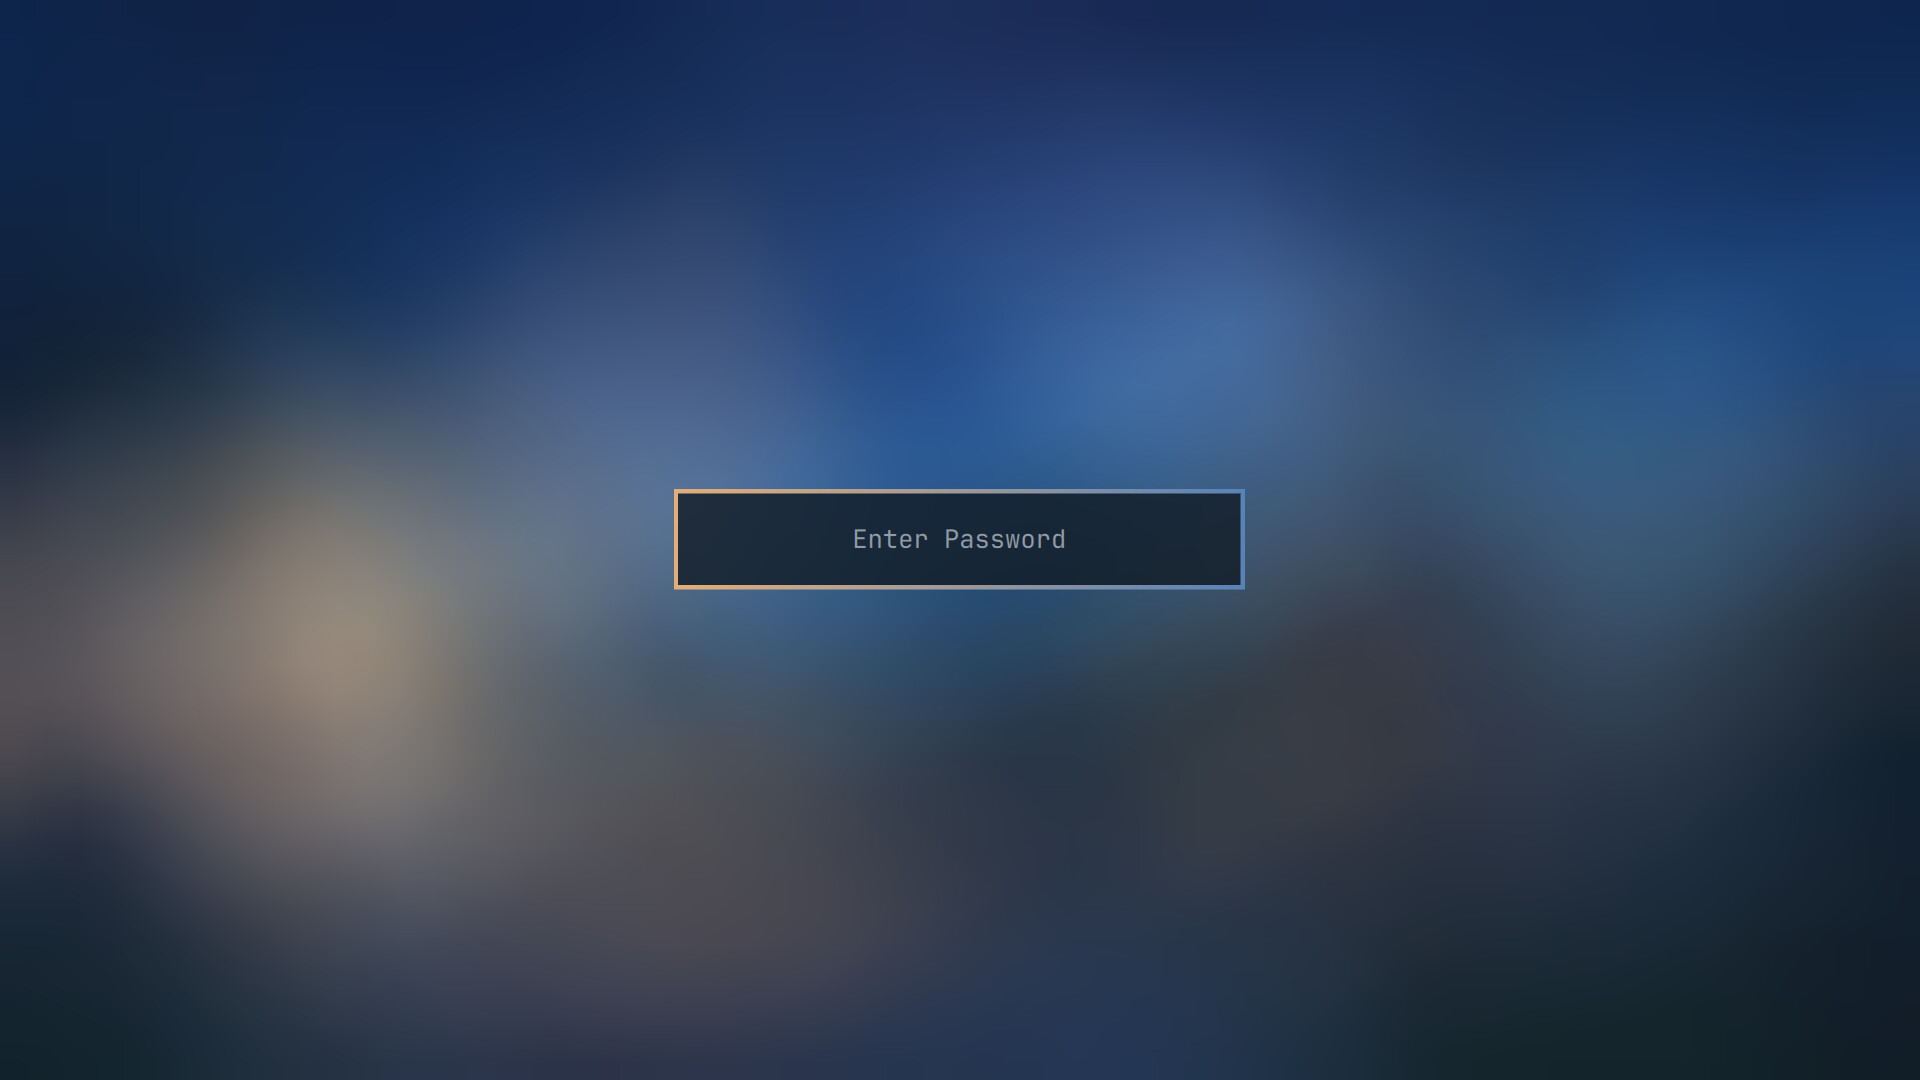
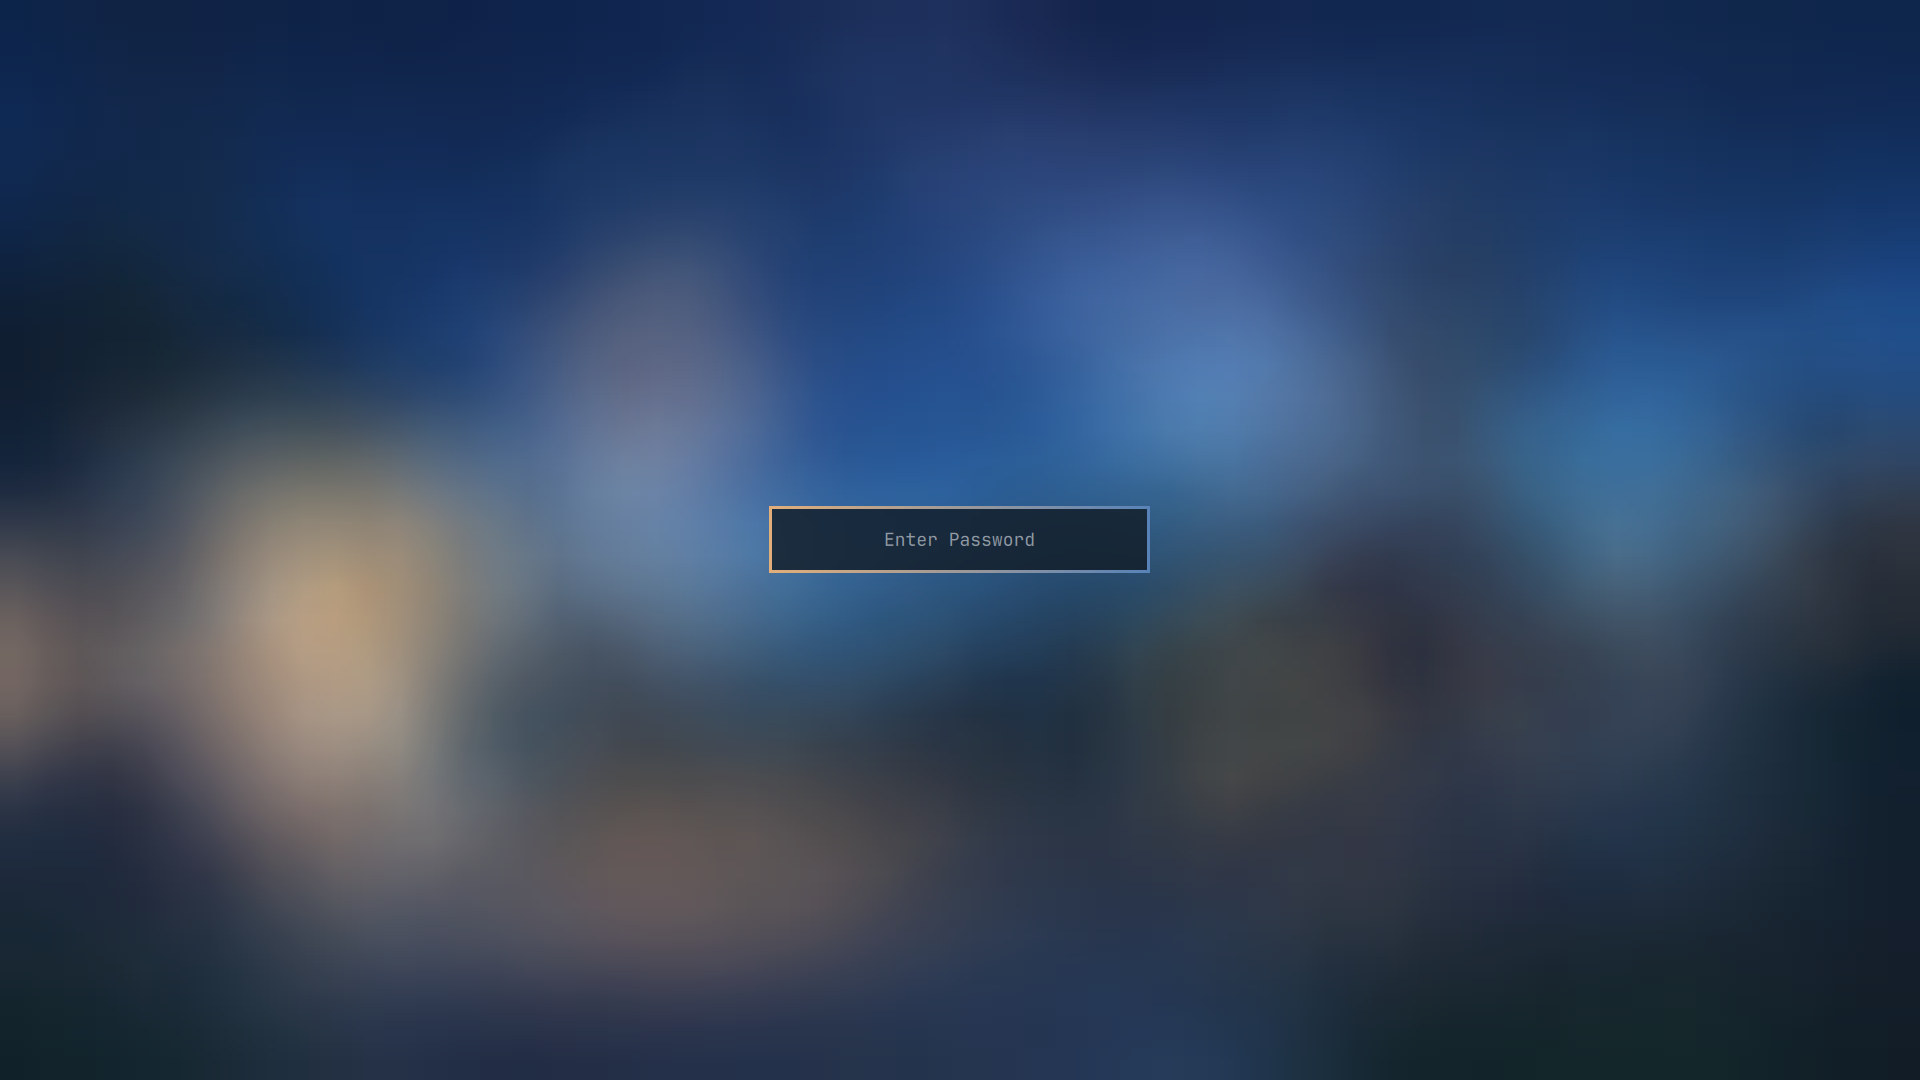
Polish Konbini for theme listings
- Repaint wallpaper signage: replace real-world brand logos with the
  fictional Sunset Mart and fix garbled AI Japanese text
- Tune palette for legibility: brighter muted/dark_foreground, clearer
  selection, red/green distinguishable with color blindness, orange
  separated from accent
- Switch icons to Yaru-yellow to match the amber accent
- Add shell.controls.toml for amber focus/selected states
- Add unlock.png and preview-unlock.png for the boot unlock screen
- Retake preview.png and all README screenshots

Claude-Session: https://claude.ai/code/session_015VyaNPytJaDsX84yfX4PpJ

diff --git a/README.md b/README.md
@@ -12,7 +12,8 @@ starfields.
 | | |
 | --- | --- |
 | ![Theme picker](screenshots/theme-switcher.jpg)<br>Theme picker | ![Terminal](screenshots/terminal.jpg)<br>Terminal + gradient border |
-| ![Lock screen](screenshots/lockscreen.jpg)<br>Lock screen | ![Second wallpaper](screenshots/desktop-lawson.jpg)<br>Second wallpaper |
+| ![Lock screen](screenshots/lockscreen.jpg)<br>Lock screen | ![Second wallpaper](screenshots/desktop-corner-store.jpg)<br>Second wallpaper |
+| ![Boot unlock screen](preview-unlock.png)<br>Boot / disk-unlock screen | |
 
 ## Install
 
@@ -52,10 +53,10 @@ omarchy theme bg next
 | accent     | ![#F0B87E](https://placehold.co/16x16/F0B87E/F0B87E.png) | `#F0B87E` |
 | background | ![#121B26](https://placehold.co/16x16/121B26/121B26.png) | `#121B26` |
 | foreground | ![#D6DEE8](https://placehold.co/16x16/D6DEE8/D6DEE8.png) | `#D6DEE8` |
-| red        | ![#E0776B](https://placehold.co/16x16/E0776B/E0776B.png) | `#E0776B` |
+| red        | ![#DC6A62](https://placehold.co/16x16/DC6A62/DC6A62.png) | `#DC6A62` |
 | yellow     | ![#F2C879](https://placehold.co/16x16/F2C879/F2C879.png) | `#F2C879` |
-| orange     | ![#F0A868](https://placehold.co/16x16/F0A868/F0A868.png) | `#F0A868` |
-| green      | ![#8FBF8A](https://placehold.co/16x16/8FBF8A/8FBF8A.png) | `#8FBF8A` |
+| orange     | ![#EE9858](https://placehold.co/16x16/EE9858/EE9858.png) | `#EE9858` |
+| green      | ![#A4D497](https://placehold.co/16x16/A4D497/A4D497.png) | `#A4D497` |
 | cyan       | ![#6FB4C7](https://placehold.co/16x16/6FB4C7/6FB4C7.png) | `#6FB4C7` |
 | blue       | ![#5C89C2](https://placehold.co/16x16/5C89C2/5C89C2.png) | `#5C89C2` |
 | magenta    | ![#A587A8](https://placehold.co/16x16/A587A8/A587A8.png) | `#A587A8` |
@@ -73,12 +74,14 @@ resolution rather than a blurry stretch.
 - `01-station-crossing.jpg` — a girl waiting at a rail crossing by a corner
   store. Shown first (Omarchy picks backgrounds alphabetically the first time
   a theme is applied).
-- `02-lawson-corner.jpg` — a konbini storefront at dusk. This is the
-  wallpaper behind the windows in `preview.png`.
+  This is also the wallpaper behind the windows in `preview.png`.
+- `02-corner-store.jpg` — the same fictional Sunset Mart, on a street corner
+  under a starry sky.
 
-The most noticeable spots of garbled AI signage text (a sign badge, a couple
-of placards) were cleaned up by hand. Some smaller signs still contain
-imperfect Japanese text.
+The signage was repainted by hand after generation: real-world brand logos
+were replaced with the fictional Sunset Mart, and garbled AI text on the
+store signs, banners and crossing plates was replaced with real Japanese
+(24時間営業, おにぎり・お弁当, 踏切注意, 年中無休).
 
 ## Lock screen
 
@@ -97,22 +100,28 @@ omarchy shell lock hidePreview  # dismiss it
 - `colors.toml` — the full Omarchy color palette, including
   `hyprland_active_border`/`hyprland_inactive_border` for an amber-to-blue
   gradient window border
-- `icons.theme` — Yaru-blue-dark, to match the navy/amber palette
+- `icons.theme` — Yaru-yellow, amber folders that match the shop-window
+  glow
+- `shell.controls.toml` — amber focus and selected states for buttons, tabs
+  and dropdowns in the Omarchy shell (the rest of the shell is generated)
+- `unlock.png` / `preview-unlock.png` — an amber Omarchy logo for the boot /
+  disk-unlock screen; pick it under **Menu → Style → Unlock**
 - `preview.png` — a real desktop screenshot (btop, neovim + neo-tree, and
   Files tiled together, matching the layout Omarchy's own stock themes use
-  for their previews), not just the raw wallpaper — shown in the Omarchy
-  theme picker and on the [Omarchy themes site](https://omarchy.org/themes/),
-  if submitted
+  for their previews), shown in the Omarchy theme picker and on
+  [themes.omarchy.org](https://themes.omarchy.org)
 - Everything else (terminal apps, bar, lock screen, etc.) is generated
-  automatically by Omarchy from `colors.toml`
+  automatically by Omarchy from `colors.toml`. The palette is tuned for
+  legibility: every text color clears WCAG AA (4.5:1) on the background
+  except `muted` (≈4:1, used for comments and autosuggestions), and red/green
+  stay distinguishable with red-green color blindness
 
 ## License
 
-Code (`colors.toml`) is MIT licensed — see [LICENSE](LICENSE).
-The background images are AI-generated (see [Backgrounds](#backgrounds)); feel
-free to use them as personal desktop backgrounds, but please don't resell
-them. Brand names and logos visible in the artwork (Lawson, DyDo, Coca-Cola)
-belong to their respective owners; this theme is not affiliated with or
-endorsed by them.
+Code (`colors.toml`, `shell.controls.toml`) is MIT licensed — see
+[LICENSE](LICENSE). The background images are AI-generated (see
+[Backgrounds](#backgrounds)); feel free to use them as personal desktop
+backgrounds, but please don't resell them. The store names in the artwork are
+fictional.
 
 Made by [Lohan-Pieterse](https://github.com/Lohan-Pieterse).
